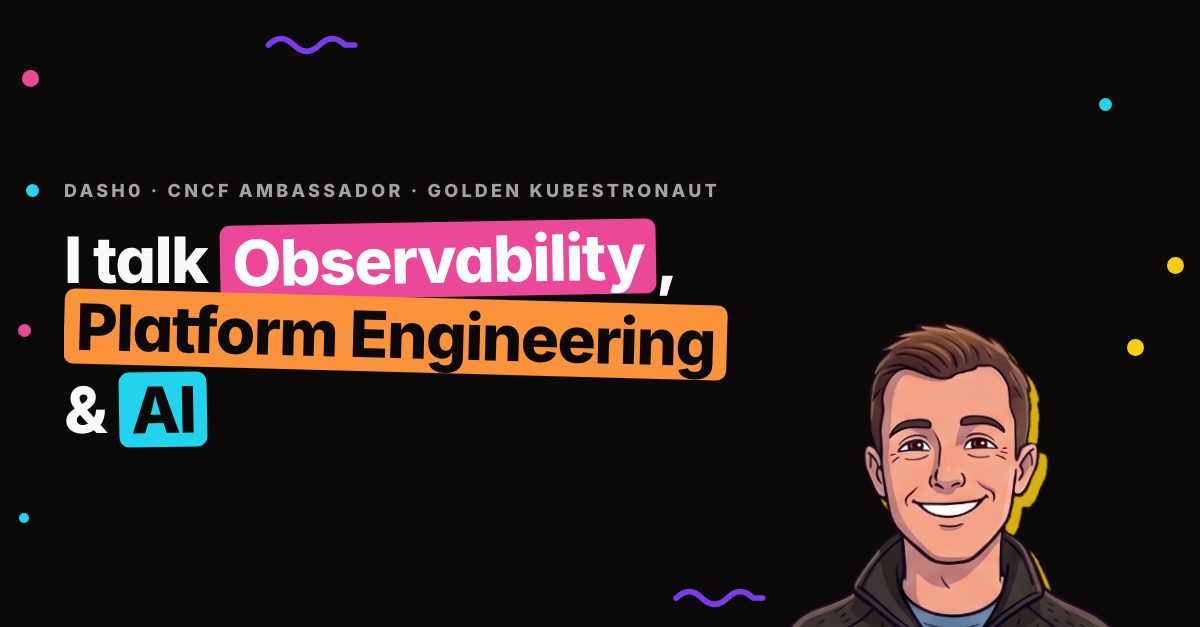
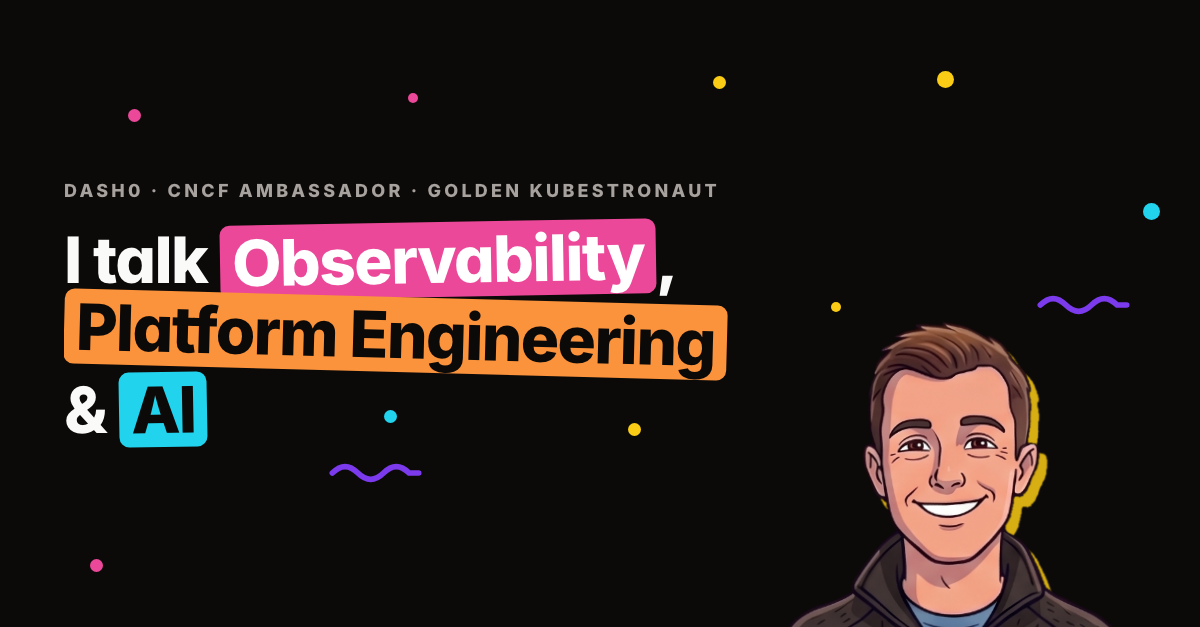
Fix Thomas Vitale hobby wording

diff --git a/.claude/skills/social-cover/template.html b/.claude/skills/social-cover/template.html
@@ -122,6 +122,21 @@
     /* .cartoon-shadow from global.css */
     filter: drop-shadow(__SHX__px __SHY__px 0 rgba(252, 204, 21, 0.85));
   }
+
+  /* A photo in the mascot's slot. It stays inside the frame (a photo has no
+     square-cut chest to hide), takes whatever room the copy leaves, and wears
+     the same hard yellow offset shadow as the cartoon. */
+  #photo { display: flex; min-height: 0; min-width: 0; }
+  #stage.stack.hasphoto { justify-content: flex-start; }
+  #stage.stack #photo { flex: 1 1 0; }
+  #stage:not(.stack) #photo { flex: 0 0 50%; align-self: stretch; }
+  #photo img {
+    display: block; width: 100%; height: 100%;
+    object-fit: cover;
+    border-radius: __PHOTOR__px;
+    transform: rotate(-1.5deg);
+    box-shadow: __PHOTOSH__px calc(__PHOTOSH__px * 1.2) 0 rgba(252, 204, 21, 0.85);
+  }
 </style>
 <body>
   <div id="decor">__DECOR__</div>

diff --git a/.claude/skills/social-cover/render.py b/.claude/skills/social-cover/render.py
@@ -42,6 +42,8 @@ PRESETS = {
     # progress bar and profile row over the top ~220px and the reply bar over
     # the bottom, so type placed there is covered.
     "story":  dict(w=1080, h=1920, pad=150, font=128, kicker=32, mascot=0.80, gap=40, stack=True),
+    # LinkedIn feed post, 4:5: the tallest image the feed shows uncropped.
+    "portrait": dict(w=1080, h=1350, pad=84, font=92, kicker=24, mascot=0.75, gap=44, stack=True),
 }
 
 
@@ -69,6 +71,7 @@ DECOR_JS = """(opts) => {
   const h1 = document.querySelector('h1');
   const kicker = document.getElementById('kicker');
   const mascot = document.querySelector('#mascot img');
+  const photo = document.querySelector('#photo img');
 
   // Per line box, not the h1's block box: a block box spans the full column
   // width, so short last lines would fence off empty space beside them.
@@ -83,6 +86,8 @@ DECOR_JS = """(opts) => {
   // confetti placed there is simply covered up, and the cover renders sparser
   // than it looks here.
   if (opts.reserve) keep.push(opts.reserve);
+  // A photo is opaque edge to edge, so unlike a mascot it gets no inset.
+  if (photo) keep.push(photo.getBoundingClientRect());
   if (mascot) {
     // Inset: a PNG's box includes its transparent margin, and decor sits
     // behind the figure anyway, so only the opaque core needs protecting.
@@ -158,8 +163,15 @@ def parse_headline(text):
             sys.exit(f"unknown chip colour {colour!r}; use one of {', '.join(sorted(COLOURS))}")
         colour = colour or CYCLE[n % len(CYCLE)]
         tilt = "a" if n % 2 == 0 else "b"
-        out.append(f'<span class="chip {colour} {tilt}">{html.escape(label)}</span>')
-        i, n = m.end(), n + 1
+        chip = f'<span class="chip {colour} {tilt}">{html.escape(label)}</span>'
+        # Punctuation right after a chip would otherwise wrap onto the next
+        # line on its own, since the chip is an inline-block.
+        punct = re.match(r"[.,;:!?'’]+", text[m.end():])
+        tail = punct.group(0) if punct else ""
+        if tail:
+            chip = f'<span style="white-space:nowrap">{chip}{html.escape(tail)}</span>'
+        out.append(chip)
+        i, n = m.end() + len(tail), n + 1
     out.append(html.escape(text[i:]))
     if n == 0:
         print("note: no {chips} in the headline — it will render as plain text", file=sys.stderr)
@@ -216,7 +228,14 @@ def build_html(args, p):
     rng = random.Random(args.seed if args.seed is not None else f"{args.headline}{args.size}")
 
     mascot_html, mascot_w = "", 0
-    if args.mascot:
+    if args.photo and args.mascot:
+        sys.exit("--photo and --mascot share a slot; pick one")
+    if args.photo:
+        if not args.photo.exists():
+            sys.exit(f"no photo at {args.photo}")
+        mascot_html = (f'<div id="photo"><img src="{data_uri(args.photo)}" alt="" '
+                       f'style="object-position:{html.escape(args.photo_focus)}" /></div>')
+    elif args.mascot:
         name = args.mascot
         if name == "random":
             choices = sorted(f.stem for f in MASCOTS.glob("*.png"))
@@ -249,7 +268,10 @@ def build_html(args, p):
         "__CHIPY__": round(p["font"] * 0.03),
         "__MASCOTW__": mascot_w,
         "__SHX__": shadow, "__SHY__": round(shadow * 1.2),
-        "__STAGECLASS__": ("stack" if p["stack"] else "") + (" flip" if args.flip else ""),
+        "__STAGECLASS__": ("stack" if p["stack"] else "") + (" flip" if args.flip else "")
+                          + (" hasphoto" if args.photo else ""),
+        "__PHOTOR__": max(10, round(p["font"] * 0.16)),
+        "__PHOTOSH__": max(8, round(min(w, h) / 90)),
         "__DECOR__": decor(rng, w, h, pad),
         "__HEADLINE__": parse_headline(args.headline),
         "__KICKERHTML__": f'<div id="kicker">{html.escape(args.kicker)}</div>' if args.kicker else "",
@@ -280,6 +302,10 @@ def main():
     # the figure; the type auto-fits to whatever is left.
     ap.add_argument("--mascot-scale", type=float, default=1.0,
                     help="multiply the preset's mascot width, e.g. 1.4 for a bigger figure")
+    ap.add_argument("--photo", type=Path,
+                    help="a photo in place of the mascot, framed with the hero's offset shadow")
+    ap.add_argument("--photo-focus", default="50% 50%",
+                    help="CSS object-position for the photo crop, e.g. '50%% 30%%'")
     ap.add_argument("--logo", type=Path,
                     help="event or partner logo (SVG or PNG), shown white above the kicker")
     ap.add_argument("--logo-scale", type=float, default=1.0,

diff --git a/.claude/skills/social-cover/SKILL.md b/.claude/skills/social-cover/SKILL.md
@@ -33,12 +33,14 @@ compositions, and a headline one word longer can change how it balances.
 
 | Flag | Meaning |
 |---|---|
-| `--size` | `square` 1024×1024 · `wide` 1920×1080 · `banner` 1584×396 (LinkedIn profile) · `card` 1200×627 (link preview / `og:image`) · `story` 1080×1920 (Instagram/LinkedIn story, 9:16) |
+| `--size` | `square` 1024×1024 · `wide` 1920×1080 · `banner` 1584×396 (LinkedIn profile) · `card` 1200×627 (link preview / `og:image`) · `story` 1080×1920 (Instagram/LinkedIn story, 9:16) · `portrait` 1080×1350 (LinkedIn feed post, 4:5) |
 | `--mascot` | Name from `assets/mascots/`, or `--mascot random`. Omit for none. |
 | `--headline` | The line. `{...}` marks a chip. |
 | `--kicker` | Small uppercase line above the headline. Optional. Shrunk to fit one line, so keep it to a short credit — a long one just renders small. |
 | `--flip` | Put the mascot on the left. |
 | `--mascot-scale` | Multiply the preset's mascot width. The headline auto-fits into whatever is left, so watch what the run prints: on a `card`, `1.8` still leaves a 74px headline, while `2.1` drops it to 52px and the kicker to 13px, which is too small to read at feed size. |
+| `--photo` | A photo (e.g. from `public/blog-images/`) in the mascot's slot, with rounded corners, a slight tilt and the yellow offset shadow. Can't be combined with `--mascot`. |
+| `--photo-focus` | CSS `object-position` for the photo crop, e.g. `"100% 50%"` to keep the right edge of a slide. Check the crop: slide text cut mid-word is the usual miss. |
 | `--seed` | Fixes the confetti. Same seed + same text = same image. |
 
 ## Writing the headline

diff --git a/src/content/blog/2026-11-04-oredev-2026.md b/src/content/blog/2026-11-04-oredev-2026.md
@@ -177,7 +177,7 @@ She ended with the question for the day: we all stand on the shoulders of giants
 
 ## A concerto for Java and AI
 
-Thomas Vitale's "Concerto for Java and AI – Building Production-Ready LLM Applications" was one of my favourite sessions. He composed music for an action scene while explaining decision models, embedding models and tools. Thomas, author of "Cloud Native Spring in Action", studies film music on the side, and he built a Spring Boot app for his composition notes. He started from the problem rather than the technology: having to pick a category for every note broke his flow. His fix was a decision model, part of a Spring AI release candidate that came out the day before, with work he'd contributed himself.
+Thomas Vitale's "Concerto for Java and AI – Building Production-Ready LLM Applications" was one of my favourite sessions. He composed music for an action scene while explaining decision models, embedding models and tools. Thomas, author of "Cloud Native Spring in Action", composes film music as a hobby, and he built a Spring Boot app for his composition notes. He started from the problem rather than the technology: having to pick a category for every note broke his flow. His fix was a decision model, part of a Spring AI release candidate that came out the day before, with work he'd contributed himself.
 
 <figure>
 <img src="/blog-images/oredev-2026-18.jpg" alt="Thomas Vitale next to a terminal showing the decision model's JSON answer, with instrument at 0.998 probability">
